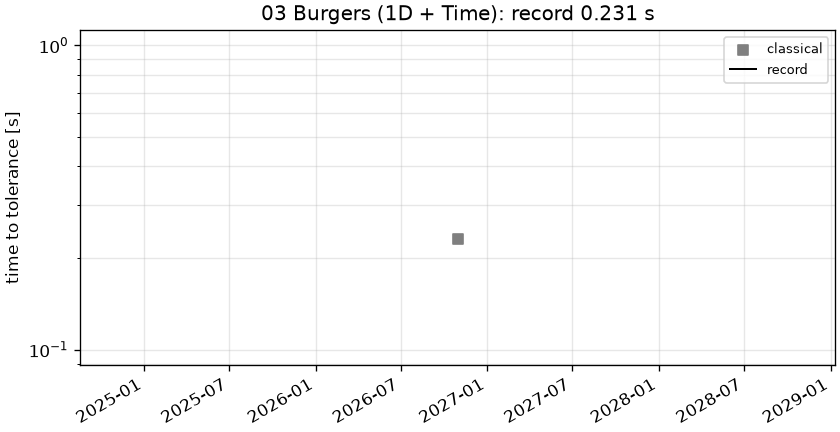
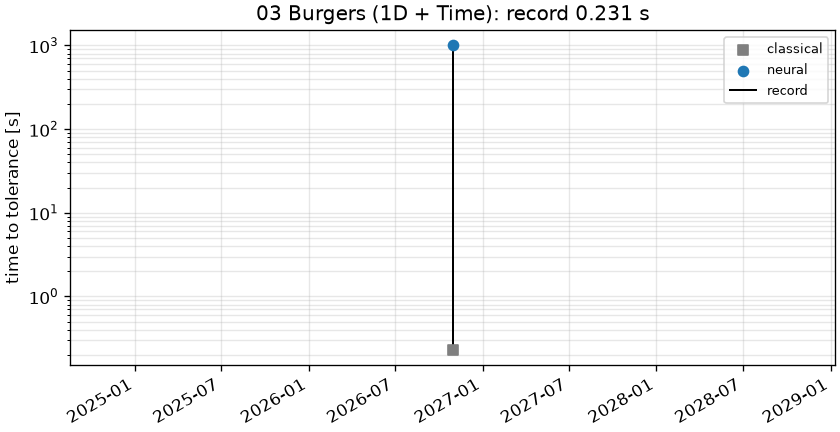
Submission 1: true float32 matmuls (TF32 capped accuracy); rerun 01 and 03
JAX's default matmul precision on H100 is TF32, which limits the accuracy of the residual's derivatives:
03 Burgers 1D stalled at L-inf 5.4e-3 (bar 1e-3). With jax_default_matmul_precision = highest, 03 passes:
RelL2 8.1e-6, L-inf 3.9e-5. 01 Van der Pol still fails: the network fits the slow drift but not the first
relaxation jump (width ~1e-3 in t on [0, 3000]), with or without finer Fourier features.

diff --git a/speedrun/submissions/submission_PR0001/pinn.py b/speedrun/submissions/submission_PR0001/pinn.py
@@ -43,6 +43,10 @@ from flax import linen as nn  # noqa: E402
 from jax.nn.initializers import constant, glorot_normal, normal, zeros  # noqa: E402
 from soap_jax import soap  # noqa: E402
 
+# True float32 matmuls. JAX's default on H100 is TF32 (~3 significant digits), which caps the residual's
+# derivatives: on 03 Burgers it holds L-inf at ~5e-3 against the 1e-3 bar; with "highest", 6e-4 in 120 s.
+jax.config.update("jax_default_matmul_precision", "highest")
+
 CHUNK = 50           # training iterations per jitted call; checkpoint after each
 
 

diff --git a/README.md b/README.md
@@ -158,9 +158,9 @@ its tracker: RelL2 vs wall-clock time, one point per submission, bar dashed.
 <!-- tracks-table:begin -->
 | track | best submission | time [s] | RelL2 | L∞ | bar met |
 |---|---|---|---|---|---|
-| 01 VanDerPol (ODE) | [PirateNet + SOAP](tracks/track01_0DT_VanDerPol/submissions/submission_PR0001/solve.py) | 363.2 | 1.09e+00 (≤ 0.0001) | 3.34e+00 (≤ 0.001) | no |
+| 01 VanDerPol (ODE) | [PirateNet + SOAP](tracks/track01_0DT_VanDerPol/submissions/submission_PR0001/solve.py) | 300.6 | 1.15e+00 (≤ 0.0001) | 3.53e+00 (≤ 0.001) | no |
 | 02 DampedWave (1D + Time) | [PirateNet + SOAP](tracks/track02_1DT_DampedWave/submissions/submission_PR0001/solve.py) | 1001 | 1.66e-02 (≤ 0.0001) | 1.53e-02 (≤ 0.001) | no |
-| 03 Burgers (1D + Time) | [PirateNet + SOAP](tracks/track03_1DT_Burgers/submissions/submission_PR0001/solve.py) | 1001 | 1.04e-04 (≤ 0.0001) | 5.40e-03 (≤ 0.001) | no |
+| 03 Burgers (1D + Time) | [PirateNet + SOAP](tracks/track03_1DT_Burgers/submissions/submission_PR0001/solve.py) | 1000 | 8.08e-06 (≤ 0.0001) | 3.86e-05 (≤ 0.001) | yes |
 | 04 KuramotoSivashinsky (1D + Time) | [PirateNet + SOAP](tracks/track04_1DT_KuramotoSivashinsky/submissions/submission_PR0001/solve.py) | 1001 | 9.30e-01 (≤ 0.05) | 3.42e+00 (≤ 0.5) | no |
 | 05 AllenCahn (1D + Time) | [PirateNet + SOAP](tracks/track05_1DT_AllenCahn/submissions/submission_PR0001/solve.py) | 403.1 | 2.77e-03 (≤ 0.0001) | 3.70e-02 (≤ 0.001) | no |
 | 06 KdV (1D + Time) | [PirateNet + SOAP](tracks/track06_1DT_KdV/submissions/submission_PR0001/solve.py) | 1000 | 1.46e-03 (≤ 0.001) | 1.08e-02 (≤ 0.01) | no |

diff --git a/speedrun/submissions/submission_PR0001/README.md b/speedrun/submissions/submission_PR0001/README.md
@@ -23,7 +23,8 @@ code (github.com/PredictiveIntelligenceLab/jaxpi, branch `pirate`) and its `pira
 - **Execution**: `solve` is one open-ended training loop; every 50 iterations (one jitted `lax.fori_loop`,
   collocation points resampled every iteration) it checkpoints the parameters for the harness. Losses are read
   one chunk late, so the GPU never waits for the host. All functions are compiled ahead of time in `setup`.
-  Matmuls use JAX's default precision (TF32 on H100), as jaxpi.
+  Matmuls run in true float32 (`jax_default_matmul_precision = highest`), not JAX's TF32 default: TF32
+  caps the accuracy of the residual's derivatives (03 Burgers: L∞ 5e-3 with TF32, 6e-4 with float32 in 120 s).
 - **Stopping**: `solve` returns once the loss stops improving by 2% for max(150 s, 25% of the elapsed time), or
   drops below 1e-10; otherwise the harness interrupts it at the track's budget (1000 s) and queries the last
   checkpoint. No reference is used.

diff --git a/tracks/track01_0DT_VanDerPol/README.md b/tracks/track01_0DT_VanDerPol/README.md
@@ -29,7 +29,7 @@ Current record: **0.03922 s** (record #0: classical baseline, maintainers, 2026-
 
 | date | author | name | kind | time [s] | RelL2 | L∞ | passes | hardware |
 |---|---|---|---|---|---|---|---|---|
-| 2026-10-30 | maintainers | PirateNet + SOAP | neural | 363.2 | 1.09e+00 | 3.34e+00 | no | NVIDIA H100 80GB HBM3 (JAX) |
+| 2026-10-30 | maintainers | PirateNet + SOAP | neural | 300.6 | 1.15e+00 | 3.53e+00 | no | NVIDIA H100 80GB HBM3 (JAX) |
 | 2026-10-30 | maintainers | record #0: classical baseline | classical | 0.03922 | 8.65e-07 | 5.37e-05 | yes | CPU (Intel(R) Core(TM) i9-7920X CPU @ 2.90GHz) |
 
 ![accuracy_vs_time](figures/accuracy_vs_time.png)

diff --git a/tracks/track03_1DT_Burgers/README.md b/tracks/track03_1DT_Burgers/README.md
@@ -30,7 +30,7 @@ Current record: **0.231 s** (record #0: classical baseline, maintainers, 2026-10
 
 | date | author | name | kind | time [s] | RelL2 | L∞ | passes | hardware |
 |---|---|---|---|---|---|---|---|---|
-| 2026-10-30 | maintainers | PirateNet + SOAP | neural | 1001 | 1.04e-04 | 5.40e-03 | no | NVIDIA H100 80GB HBM3 (JAX) |
+| 2026-10-30 | maintainers | PirateNet + SOAP | neural | 1000 | 8.08e-06 | 3.86e-05 | yes | NVIDIA H100 80GB HBM3 (JAX) |
 | 2026-10-30 | maintainers | record #0: classical baseline | classical | 0.231 | 4.43e-07 | 1.10e-04 | yes | NVIDIA GeForce RTX 2080 Ti |
 
 ![accuracy_vs_time](figures/accuracy_vs_time.png)
